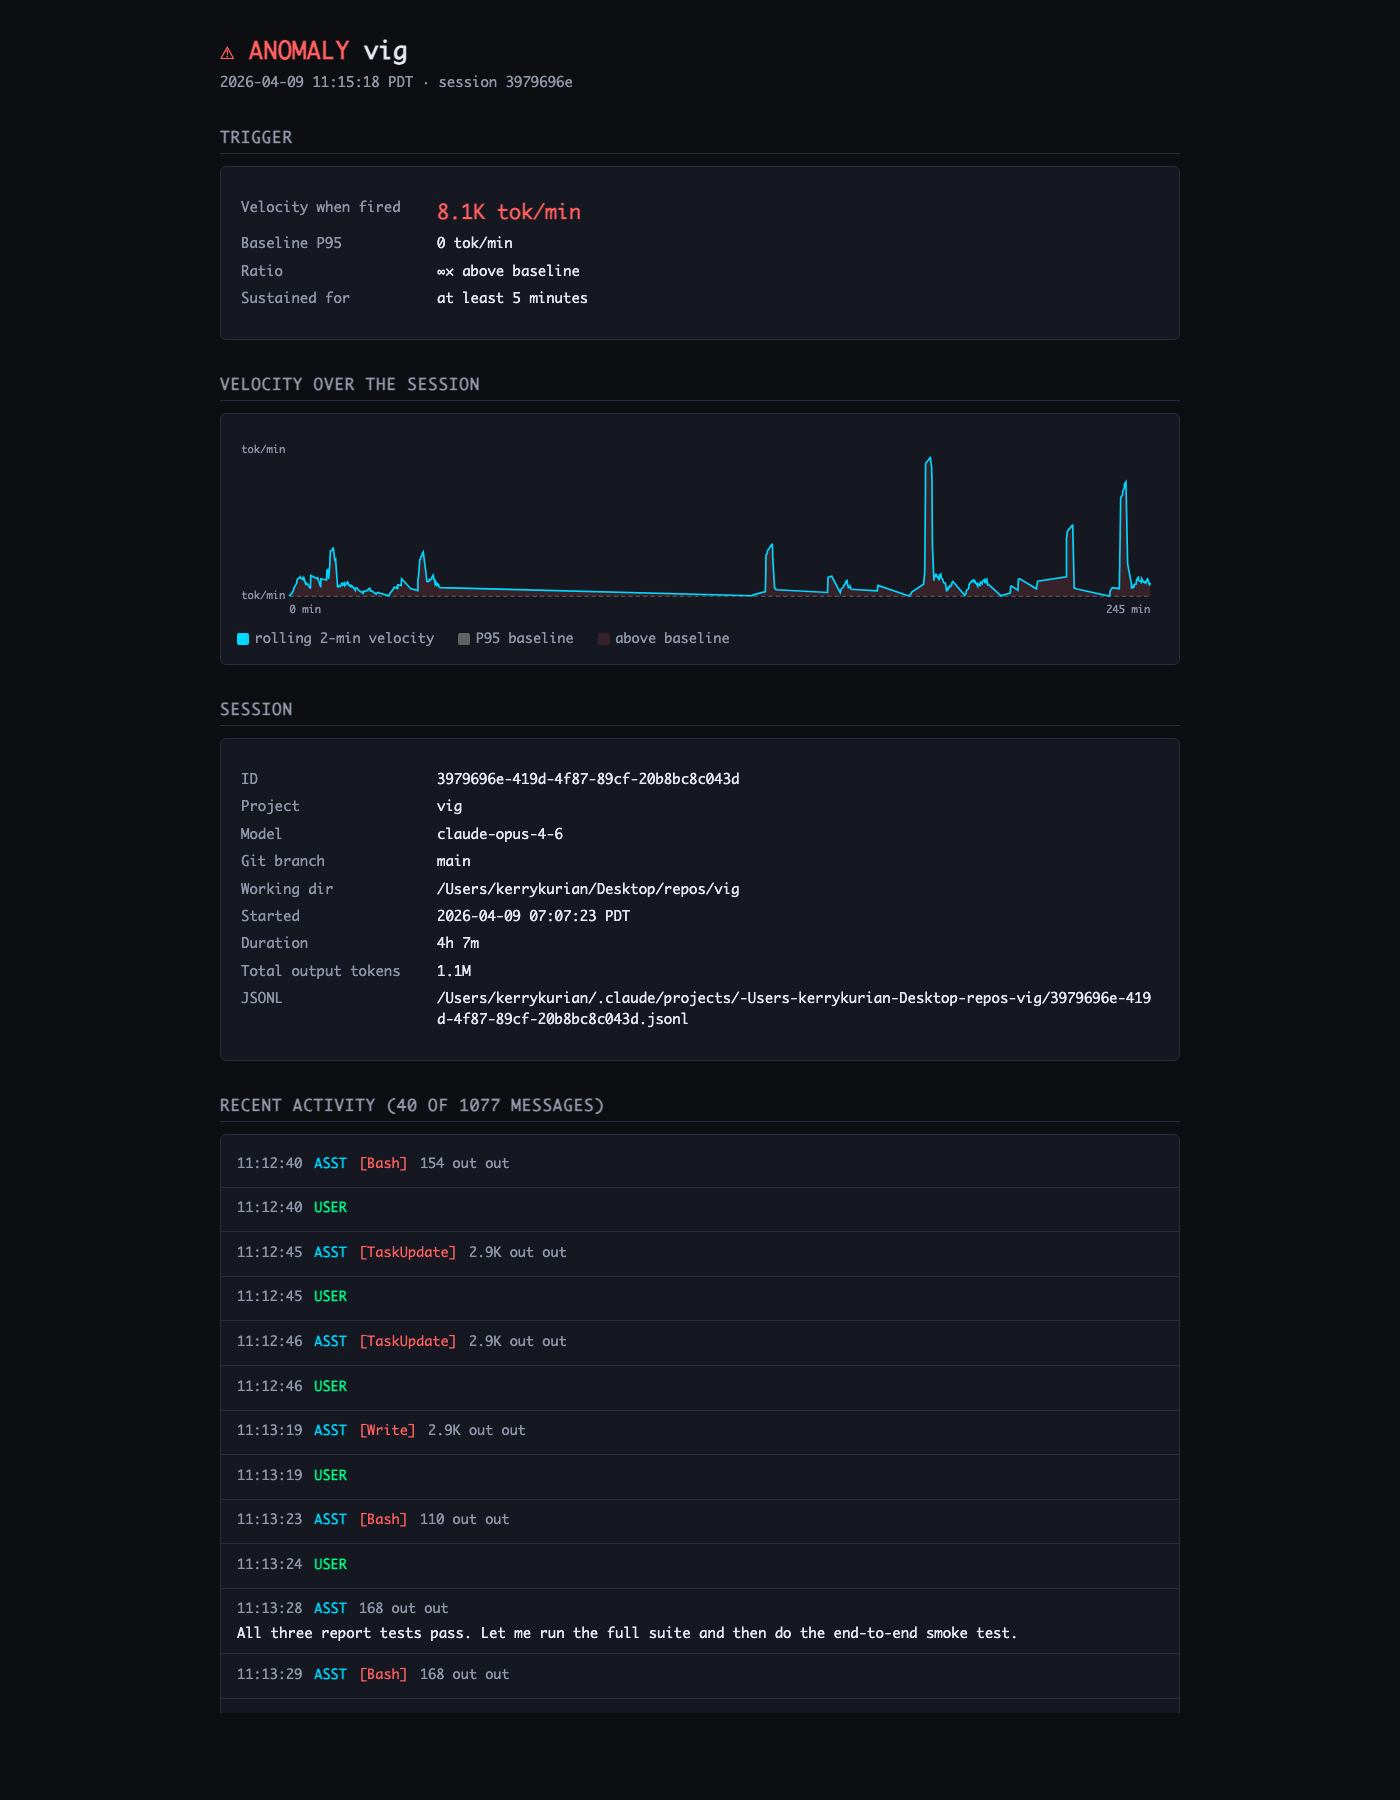
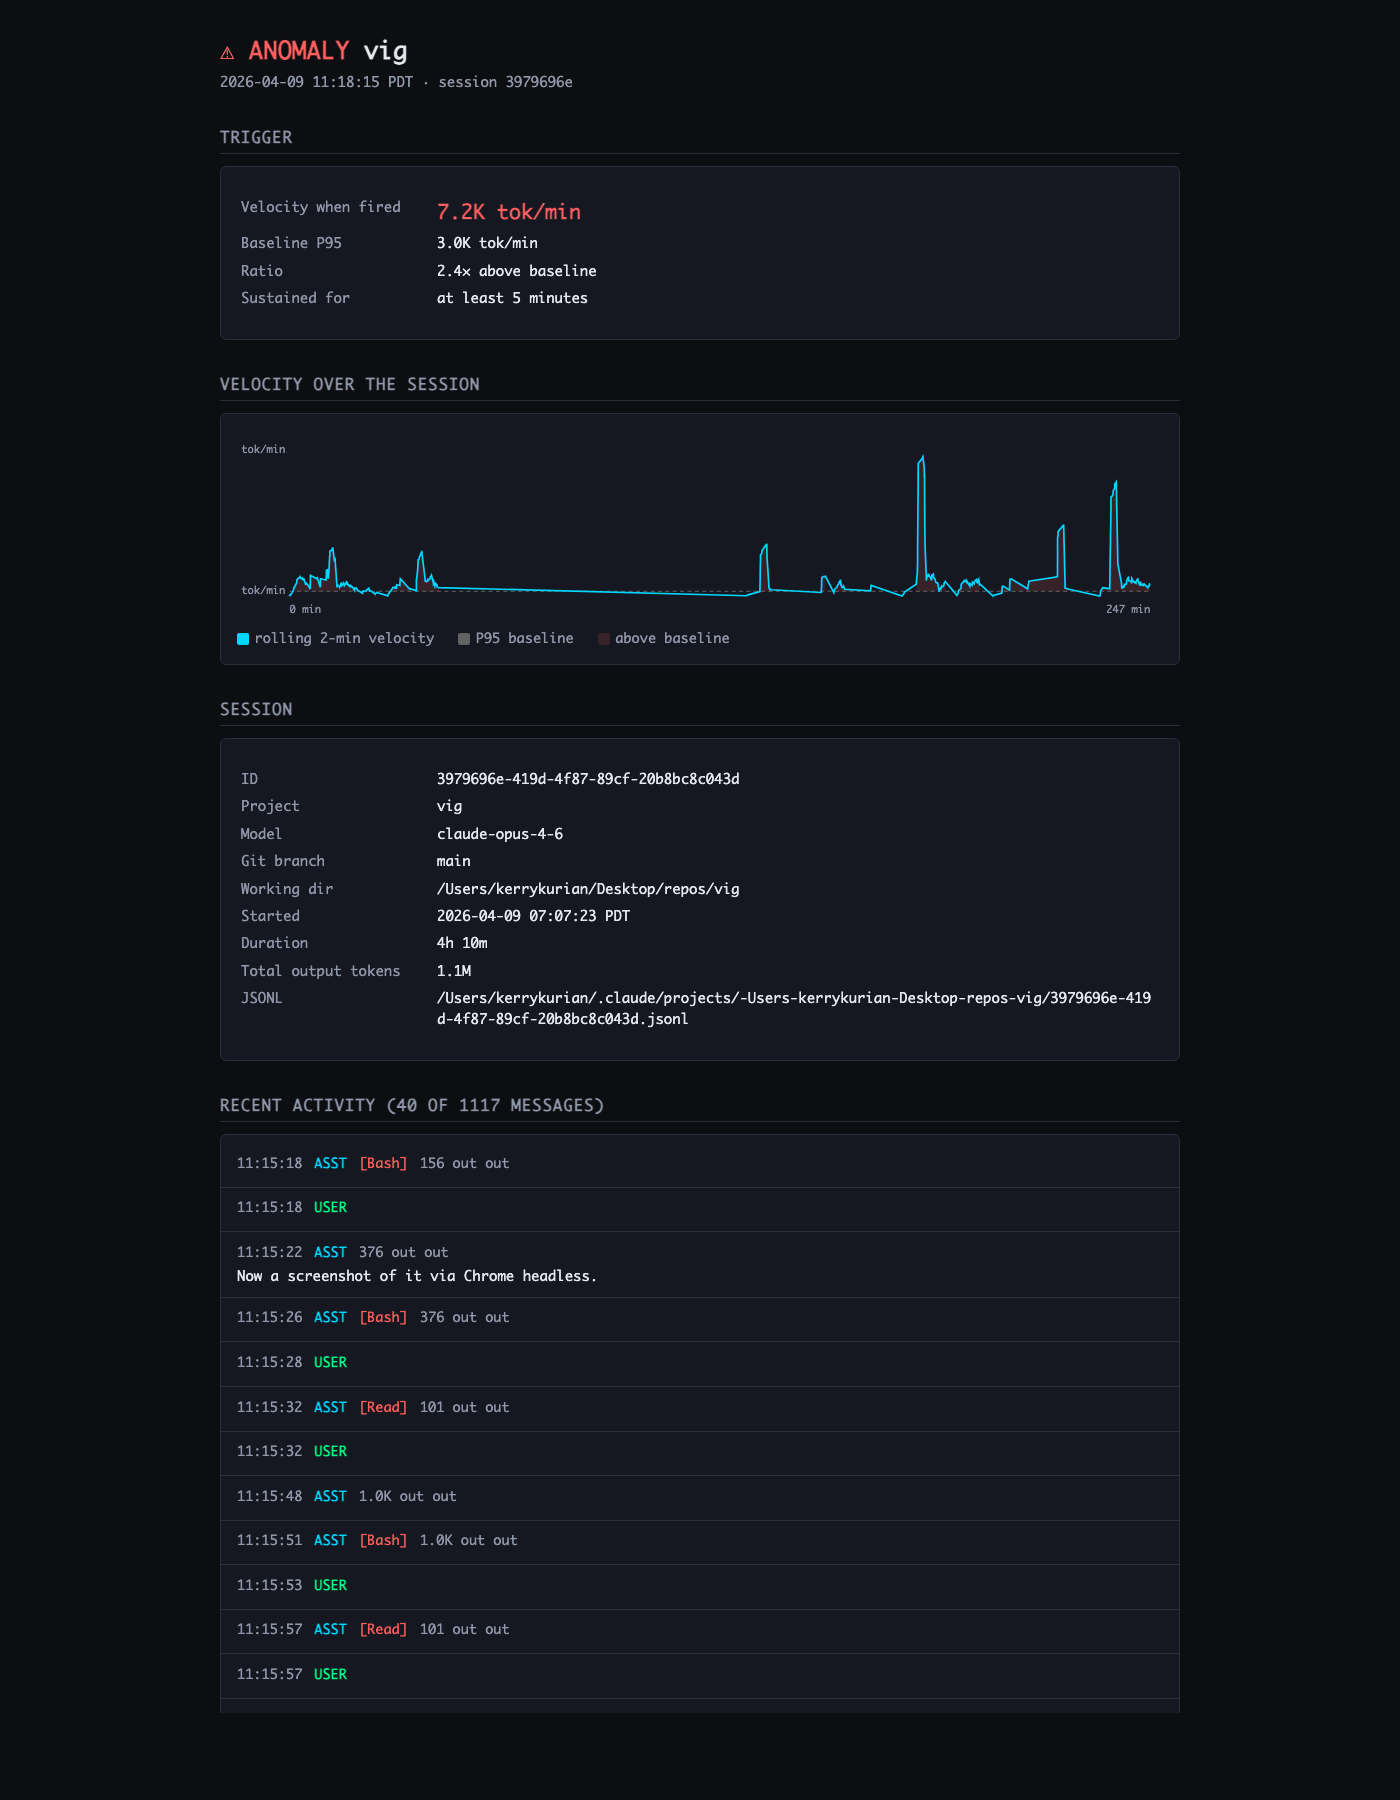
vig report: compute real baseline instead of hardcoding 0
cmdReport was passing BaselineP95: 0 to report.Build on the
reasoning that "velocity/baseline aren't meaningful for a manual
report since the session isn't currently exceeding anything." That
reasoning was wrong — the baseline is a property of the user's
30-day history, not of the session under inspection, and showing
it as 0 made the rendered report actively misleading:

  - Trigger panel: "Baseline P95: 0 tok/min" / "Ratio: ∞× above
    baseline" — obviously bogus.
  - Chart: the dashed baseline line collapsed to the x-axis and
    every velocity sample got flagged as "above baseline" in the
    shading, defeating the whole point of the visualization.

Fix: call anomaly.ComputeBaseline(session.ScanAll()) in cmdReport
so the manual report path shows the same value the daemon would
have seen at the moment of a live alert. The daemon path
(buildOnAlert in internal/daemon) was already correct — it uses
det.P95Snapshot() to capture whatever the detector was comparing
against when it fired. Only the CLI path was broken.

Also regenerates docs/anomaly-report-screenshot.png so the README
preview reflects the fix — the new capture shows P95=3.0K tok/min,
ratio 2.4× above baseline, and a correctly-drawn baseline line in
the velocity chart.

diff --git a/main.go b/main.go
@@ -20,6 +20,7 @@ import (
 	"syscall"
 	"time"
 
+	"github.com/kkurian/vig/internal/anomaly"
 	"github.com/kkurian/vig/internal/config"
 	"github.com/kkurian/vig/internal/daemon"
 	"github.com/kkurian/vig/internal/report"
@@ -125,14 +126,18 @@ func cmdReport(args []string) {
 		Messages:  msgs,
 		FilePath:  path,
 	}
-	// Velocity/baseline aren't meaningful for a manual report since
-	// the session isn't currently exceeding anything — use the final
-	// rolling window as the "velocity" reading and zero as baseline.
+	// Use the session's final 2-minute rolling window as the report's
+	// "velocity when fired" — it's the closest analogue to what the
+	// live detector would read for a session that just transitioned
+	// to anomalous. Compute a fresh historical baseline so the report
+	// shows a meaningful comparison, not a zero baseline that renders
+	// the whole trigger panel misleading.
 	v := finalWindowVelocity(msgs)
+	baseline := anomaly.ComputeBaseline(session.ScanAll()).P95
 	reportPath, err := report.Build(report.Params{
 		Session:     s,
 		Velocity:    v,
-		BaselineP95: 0,
+		BaselineP95: baseline,
 		AlertTime:   time.Now(),
 		Version:     version,
 	})
